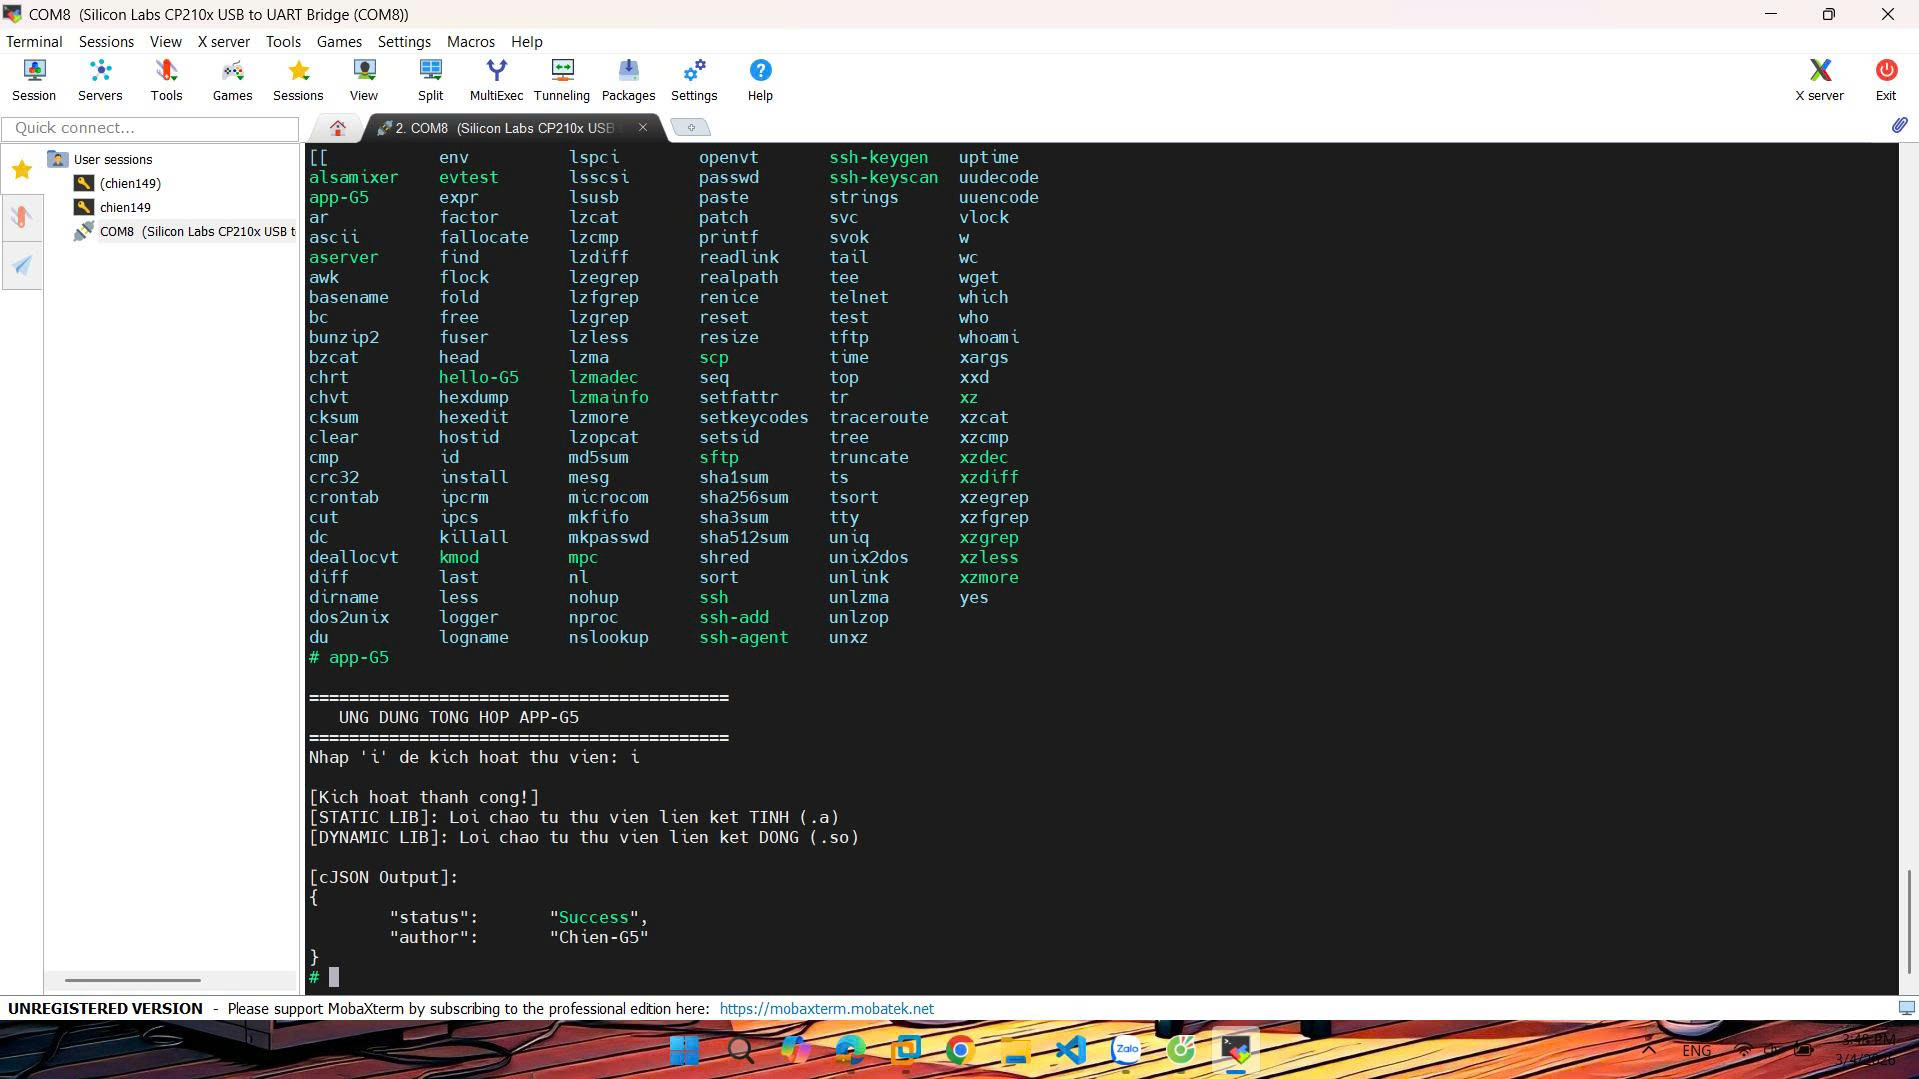
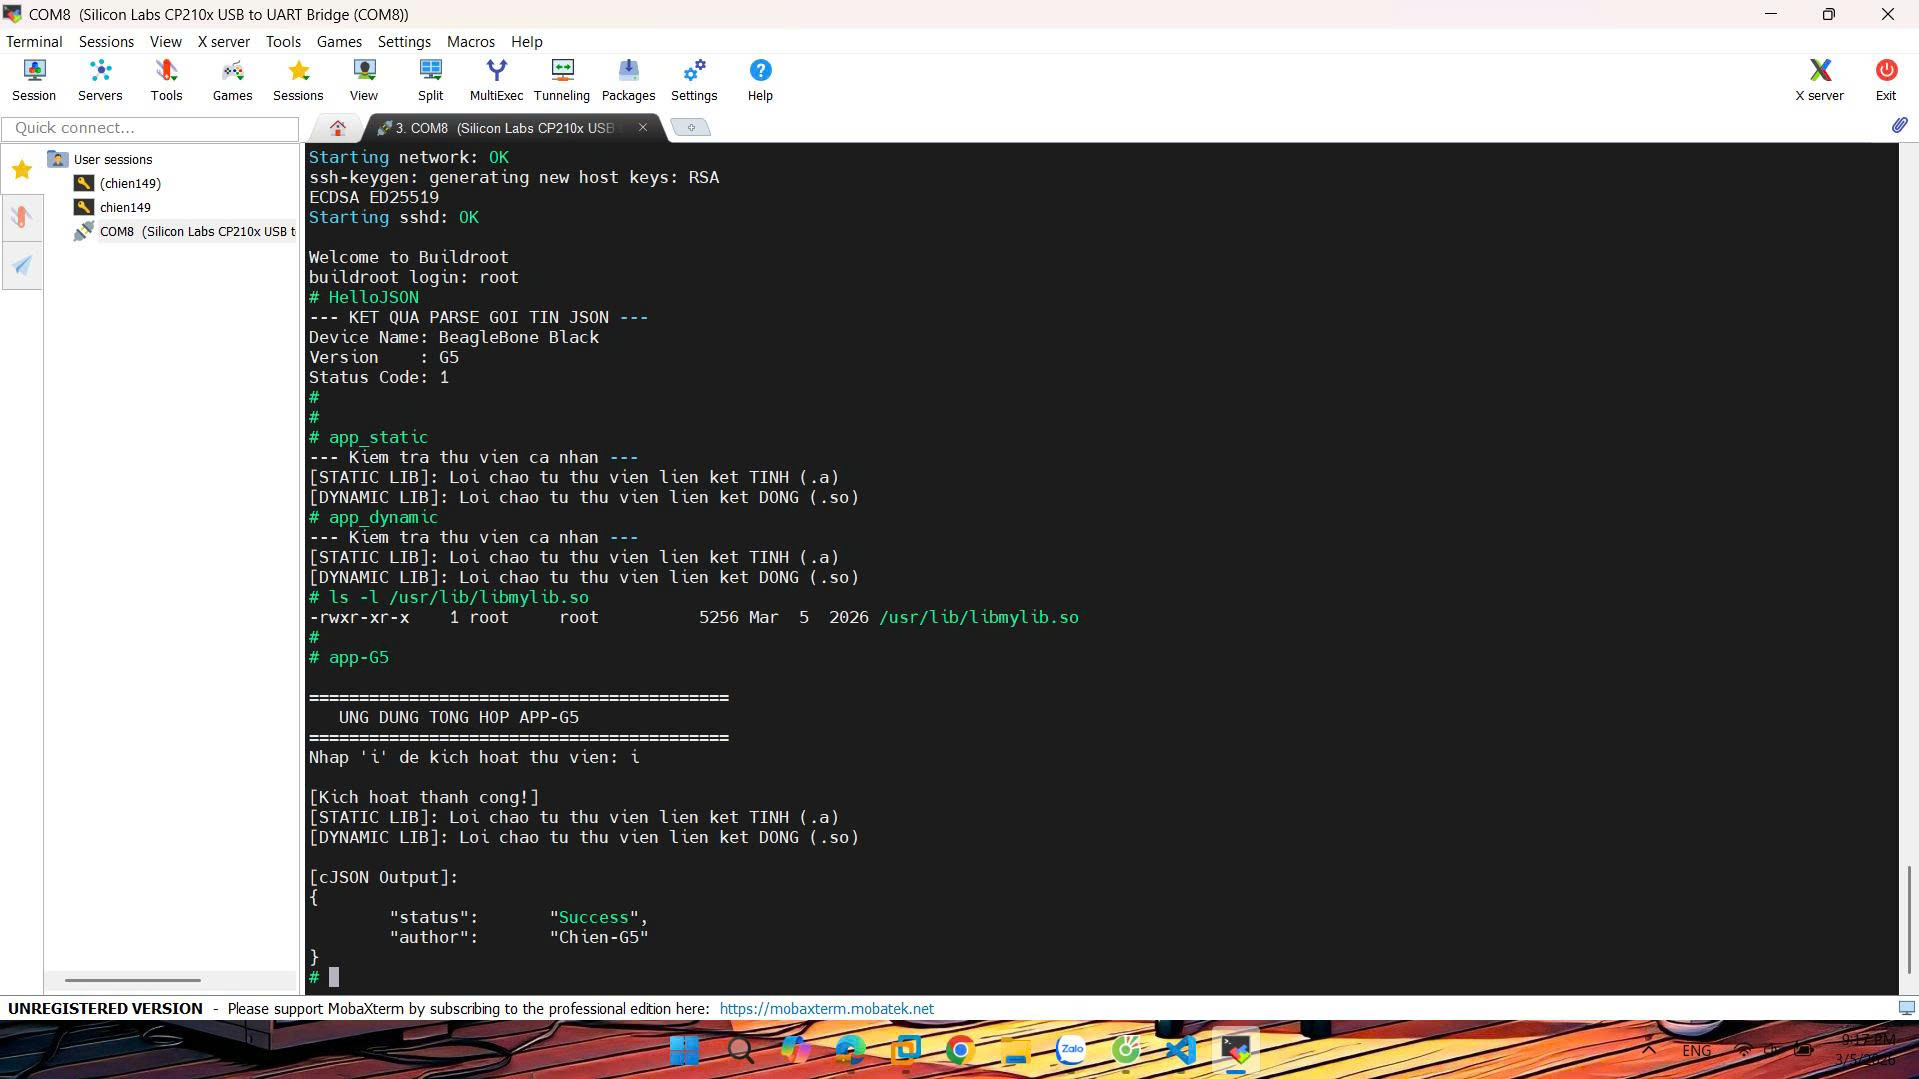
Them cac bai tap tuan 5

Changed region(s): [[0.1537, 0.1223, 0.5534, 0.6117], [0.5534, 0.9481, 0.6456, 1.0]]

diff --git a/Tuan5/README.md b/Tuan5/README.md
@@ -12,9 +12,84 @@ Tuần này sẽ thực hiện build các phụ thuộc và thư viện người
 
 ---
 ## B. Thực hiện chi tiết
-### I. Bài 2: Xây dựng thư viện riêng (mylib)
-- Đây là bước tạo nền tảng cho hệ thống.
-- 
+
+### I. Biên dịch ứng dụng với thư viện đã có
+- **Yêu cầu:** Viết 01 chương trình C/C++ có sử dụng thư viện cJSON.
+
+#### 1. Kích hoạt thư viện cJSON (Bài 1)
+- Chạy lệnh: `make menuconfig`
+- Tìm đường dẫn: `Target packages` ---> `Libraries` ---> `JSON` ---> [*] cJSON.
+![Kết quả cuối cùng](images/1.1.cJSON.jpg)
+- **Save** và **Exit**.
+- Chạy lệnh để Buildroot tải và cài đặt cJSON vào Staging:
+``` make cjson```.
+
+#### 2. Tạo thư mục bài tập
+- Sử dụng lệnh: `sudo mkdir baitaptuan5_1`
+- Tạo file bằng lệnh: `~/kernel_module/baitaptuan5_1$ sudo vi HelloJSON.c`
+- Nội dung file C:
+```
+#include <stdio.h>
+#include <stdlib.h>
+#include <cjson/cJSON.h>
+
+int main() {
+    // 1. Giả lập một chuỗi JSON (Gói tin nhận được)
+    const char *json_string = "{\"name\":\"BeagleBone Black\", \"version\":\"G5\", \"status\":1}";
+
+    // 2. Parse chuỗi JSON
+    cJSON *root = cJSON_Parse(json_string);
+    if (root == NULL) {
+        printf("Loi: Khong the parse chuoi JSON!\n");
+        return 1;
+    }
+
+    // 3. Trich xuat cac truong thong tin
+    cJSON *name = cJSON_GetObjectItemCaseSensitive(root, "name");
+    cJSON *version = cJSON_GetObjectItemCaseSensitive(root, "version");
+    cJSON *status = cJSON_GetObjectItemCaseSensitive(root, "status");
+
+    // 4. In ket qua len Terminal
+    printf("--- KET QUA PARSE GOI TIN JSON ---\n");
+    if (cJSON_IsString(name) && (name->valuestring != NULL)) {
+        printf("Device Name: %s\n", name->valuestring);
+    }
+    if (cJSON_IsString(version) && (version->valuestring != NULL)) {
+        printf("Version    : %s\n", version->valuestring);
+    }
+    if (cJSON_IsNumber(status)) {
+        printf("Status Code: %d\n", status->valueint);
+    }
+
+    // 5. Giai phong bo nho
+    cJSON_Delete(root);
+    return 0;
+}
+
+```
+#### 3. Biên dịch chéo và đưa xuống BBB
+- Tại thư mục chứa file **HelloJSON.c** chạy lênh:
+```
+~/buildroot/buildroot/output/host/bin/arm-buildroot-linux-gnueabihf-gcc \
+-I ~/buildroot/buildroot/output/host/arm-buildroot-linux-gnueabihf/sysroot/usr/include \
+HelloJSON.c -o HelloJSON \
+-L ~/buildroot/buildroot/output/host/arm-buildroot-linux-gnueabihf/sysroot/usr/lib \
+-lcjson
+
+```
+- Đưa xuống BBB bằng lệnh:
+```
+sudo cp HelloJSON /media/chien/rootfs/usr/bin/
+sudo chmod +x /media/chien/rootfs/usr/bin/HelloJSON
+
+```
+
+#### Kết quả nhận được khi chạy trên BBB
+---
+
+### II. Bài 2: Tự tạo thư viện cá nhân
+- **Yêu cầu:** Tự tạo 01 thư viện đơn giản của riêng mình và ứng dụng sử dụng thư viện đó.
+
 #### 1. Tạo cấu trúc thư mục
 - Terminal đang đứng ở thư mục: `chien@chien-virtual-machine:~/buildroot/buildroot$`.
 - Chạy lệnh: `mkdir -p package/mylib/src`.
@@ -109,24 +184,61 @@ $(eval $(generic-package))
 - **Staging Area** (`output/staging/usr/lib`): chứa cả `libmylib.a` và `libmylib.so`. Đây là nơi các chương trình khác (như chương trình ở Bài 1 & 3) sẽ tìm để mượn hàm lúc biên dịch.
 - **Target Area** (`output/target/usr/lib`): chỉ chứa `libmylib.so`. Vì file tĩnh `.a` đã được nhét thẳng vào chương trình lúc build nên không cần copy lên board để đỡ tốn bộ nhớ.
 
-### II. Bài 1 & 3: 
+#### 7. Viết chương trình test và biên dịch thành 2 bản (Tĩnh và Động)
 
-- Trọng tâm của 2 bài này là:
-  - **Bài 1:** Sử dụng một thư viện ngoài (thư viện cJSON có sẵn trong Buildroot) và cấu hình sự phụ thuộc (Dependency).
-  - **Bài 3:** Viết một chương trình gọi cả mylib và cJSON, xử lý khi nhập phím **'i'**.
+- Tạo thư mục mới bằng lệnh: `chien@chien-virtual-machine:~/kernel_module$ sudo mkdir baitaptuan5_2`
+- Tạo file bằng lệnh: `chien@chien-virtual-machine:~/kernel_module/baitaptuan5_2$ sudo vi test_lib.c`
+- Với nội dung:
 
-#### 1. Kích hoạt thư viện cJSON (Bài 1)
-- Chạy lệnh: `make menuconfig`
-- Tìm đường dẫn: `Target packages` ---> `Libraries` ---> `JSON` ---> [*] cJSON.
-![Kết quả cuối cùng](images/1.1.cJSON.jpg)
-- **Save** và **Exit**.
-- Chạy lệnh để Buildroot tải và cài đặt cJSON vào Staging:
-``` make cjson```.
+```
+#include <stdio.h>
+#include <mylib.h>
 
-#### 2. Tạo cấu trúc thư mục cho ứng dụng chính (Bài 3)
+int main() {
+    printf("--- Kiem tra thu vien ca nhan ---\n");
+    hello_static();
+    hello_dynamic();
+    return 0;
+}
+
+```
+- Dùng câu lệnh đề chuyển quyền sở hữu:
+`sudo chown -R chien:chien ~/kernel_module/baitaptuan5_2`
+- **Biên dịch liên kết tĩnh:**
+```
+~/buildroot/buildroot/output/host/bin/arm-buildroot-linux-gnueabihf-gcc \
+-I ~/buildroot/buildroot/output/host/arm-buildroot-linux-gnueabihf/sysroot/usr/include \
+test_lib.c -o app_static \
+-L ~/buildroot/buildroot/output/host/arm-buildroot-linux-gnueabihf/sysroot/usr/lib \
+-l:libmylib.a
+```
+
+- **Biên dịch liên kết động:**
+
+```
+~/buildroot/buildroot/output/host/bin/arm-buildroot-linux-gnueabihf-gcc \
+-I ~/buildroot/buildroot/output/host/arm-buildroot-linux-gnueabihf/sysroot/usr/include \
+test_lib.c -o app_dynamic \
+-L ~/buildroot/buildroot/output/host/arm-buildroot-linux-gnueabihf/sysroot/usr/lib \
+-lmylib
+```
+#### 8. So sánh kích thước và sự phụ thuộc
+- So sánh dung lượng bằng lênh:` ls -lh app_static app_dynamic`
+- Kiểm tra sự phụ thuộc bằng các lệnh:
+  - Thư viện động:`~/buildroot/buildroot/output/host/bin/arm-buildroot-linux-gnueabihf-readelf -d app_dynamic | grep NEEDED`
+  - Thư viện tĩnh:`~/buildroot/buildroot/output/host/bin/arm-buildroot-linux-gnueabihf-readelf -d app_static | grep NEEDED`
+
+![Kết quả cuối cùng](images/2.3.static_and_share.jpg)
+
+
+### III. Bài 3: Tích hợp ứng dụng và thư viện và Buildroot
+- **Yêu cầu:** Xây dựng chương trình có phụ thuộc vào cả 2 thư viện ở Bài 1 và Bài 2 vào Buildroot có ràng buộc phụ thuộc.
+
+
+#### 1. Tạo cấu trúc thư mục cho ứng dụng chính (Bài 3)
 - Tại thư mục gốc Buildroot: ```mkdir -p package/app-G5/src```
 
-#### 3. Viết mã nguồn chương trình chính (package/app-G5/src/main.c)
+#### 2. Viết mã nguồn chương trình chính (package/app-G5/src/main.c)
 - Sử dụng lệnh: ```vi package/app-G5/src/main.c``` với nội dung:
 
 ```
@@ -164,7 +276,7 @@ int main() {
 }
 
 ```
-#### 4. Tạo các file cấu hình cho Buildroot
+#### 3. Tạo các file cấu hình cho Buildroot
 - Sử dụng lệnh: ```vi package/app-G5/Config.in``` với nội dung:
 
 ```
@@ -197,14 +309,34 @@ define APP_G5_BUILD_CMDS
 endef
 
 define APP_G5_INSTALL_TARGET_CMDS
-	$(INSTALL) -D -m 0755 $(@D)/app-G5 $(TARGET_DIR)/usr/bin/app-G5
+    # Cài đặt chương trình tổng hợp Bài 3
+    $(INSTALL) -D -m 0755 $(@D)/app-G5 $(TARGET_DIR)/usr/bin/app-G5
+    
+    # Bổ sung: Cài đặt 2 chương trình so sánh của Bài 2 (đảm bảo bạn đã copy chúng vào package/app-G5/src/)
+    $(INSTALL) -D -m 0755 $(@D)/app_static $(TARGET_DIR)/usr/bin/app_static
+    $(INSTALL) -D -m 0755 $(@D)/app_dynamic $(TARGET_DIR)/usr/bin/app_dynamic
+
+    # Bổ sung bài 1:
+    $(INSTALL) -D -m 0755 $(@D)/HelloJSON $(TARGET_DIR)/usr/bin/HelloJSON
 endef
 
 $(eval $(generic-package))
 
 ```
 
-#### 5. Đăng ký, Chọn và Biên dịch cuối cùng
+- Copy 2 file vào thư mục nguồn của package bằng lệnh:
+```
+cp ~/kernel_module/baitaptuan5_2/app_static ~/buildroot/buildroot/package/app-G5/src/
+cp ~/kernel_module/baitaptuan5_2/app_dynamic ~/buildroot/buildroot/package/app-G5/src/
+
+```
+- Copy file HelloJSON từ bài 1 vào thư mục nguồn:
+
+```
+cp ~/kernel_module/baitaptuan5_1/HelloJSON ~/buildroot/buildroot/package/app-G5/src/
+```
+
+#### 4. Đăng ký, Chọn và Biên dịch cuối cùng
 - Đăng ký vào menu cá nhận: Mở `package/Config.in` bằng lệnh: ```vi package/Config.in``` với nội dung:
 ```
 source "package/app-G5/Config.in"
@@ -220,7 +352,7 @@ source "package/app-G5/Config.in"
 - Biên dịch bằng lệnh: ``` make app-G5```.
 - Đóng gói lại toàn bộ hệ điều hành bằng lệnh:  ```make```. Lệnh này sẽ gom `mylib`, `cJSON` và `app-G5` vào file `sdcard.img`.
 
-#### 6. Copy file thẻ nhớ
+#### 5. Copy file thẻ nhớ
 - Dùng lệnh: 
 ```
 sudo dd if=output/images/sdcard.img of=/dev/sdX bs=4M status=progress
@@ -229,6 +361,6 @@ sync
 - Sau khi đăng nhập trên BBB, hãy chạy lệnh: ```app-G5```.
   - Màn hình hiện: `Nhap 'i' de kich hoat thu vien:`
   - Gõ `i` và nhấn **Enter**.
-  - Tu được kết quả:
+  - Thu được kết quả:
 
-![Kết quả cuối cùng](images/3.1.Kqcc.jpg)
+![Kết quả cuối cùng](images/3.1.KQCC.jpg)
